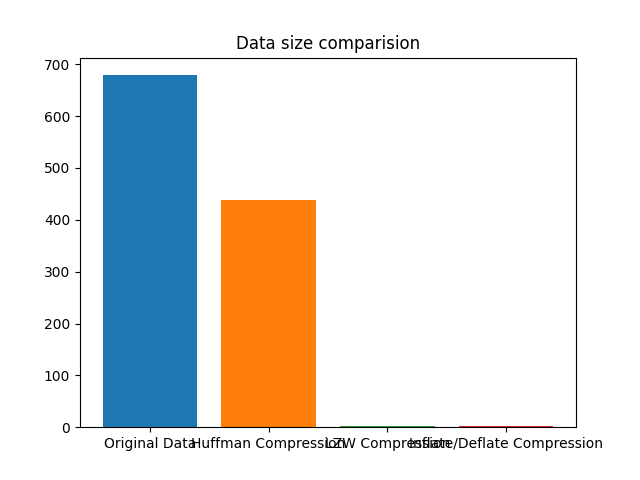
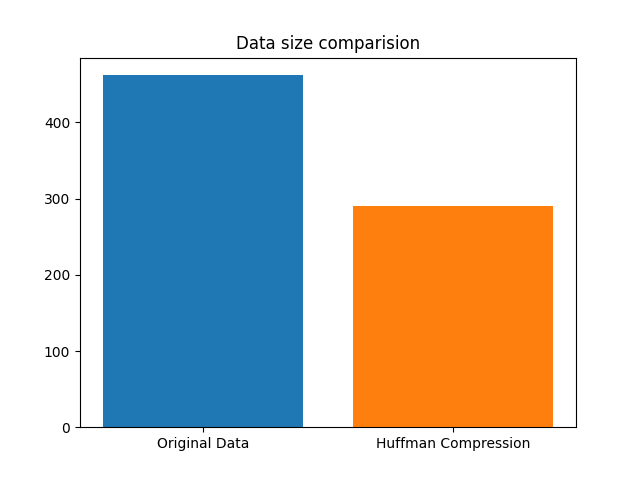
Added Huffman decoding

diff --git a/Python/FuncAndClass.py b/Python/FuncAndClass.py
@@ -29,6 +29,12 @@ class NodeTree(object):
     def __str__(self):
         return '%s_%s' % (self.left, self.right)
 
+class Node:
+    def __init__(self, freq,data):
+        self.freq= freq
+        self.data=data
+        self.left = None
+        self.right = None
 
 # Main function implementing huffman coding
 def huffman_code_tree(node, left=True, binString=''):
@@ -44,11 +50,6 @@ def huffman_code_tree(node, left=True, binString=''):
 def huffComp(arr, z):
     data = arr
     print("")
-    '''
-    f = open("string/data"+str(z)+".txt", 'w')
-    f.write('data = ' + data)
-    f.close()
-    '''
     
     freq = {}
     # Calculating frequency
@@ -77,13 +78,33 @@ def huffComp(arr, z):
     print('----------------------')
     for (char, frequency) in freq:
         print(' %-4r |%12s' % (char, huffmanCode[char]))
-
+    
     compdata = ''
     for char in data:
         compdata += huffmanCode[char]
-
     # Comparing our compressed code to the normal ASCII code values
     return compdata
+
+def huffDec(root, data):
+	#Enter Your Code Here
+    cur = root
+    chararray = []
+    #For each character, 
+    #If at an internal node, move left if 0, right if 1
+    #If at a leaf (no children), record data and jump back to root AFTER processing character
+    for char in data:
+        if char == '0' and cur.left:
+            cur = cur.left
+        elif cur.right:
+            cur = cur.right
+        
+        if cur.left is None and cur.right is None:
+            chararray.append(cur.data)
+            cur = root
+    
+    #Print final array
+    print("".join(chararray))
+
 
 # Function for LZW Compression
 def LZWEnc(strData, code_width=12):
@@ -351,7 +372,7 @@ def stringIt(arr):
     return arr
 
 #Transmittion
-def monteTransmit(EbNo, transArr, sourceData, code):
+def monteTransmit(EbNo, transArr, sourceData, code=0):
     BERarr = [None] * EbNo.size
     M = 64
     r = 0
@@ -384,17 +405,14 @@ def monteTransmit(EbNo, transArr, sourceData, code):
         
         
         if code == 1:
+            answer = 'Hamming Encoded'
             r = calcRedundantBits(len(transArr))
             modArr = mod.modulate(transArr)
-            # rateHamming = 1 - r/(2^r - 1)
-            rateHamming = 1/2
+            rateHamming = 1 - r/(2^r - 1)
+            # rateHamming = 1/2
             recieveArr = awgn(modArr, SNR, rate=rateHamming)
             demodArr = mod.demodulate(recieveArr, 'hard')
-
-            answer = 'Hamming Encoded'
-            data = transArr
-            decodedData = demodArr
-            '''
+            
             r =  calcRedundantBits(len(demodArr))    
             posError = 0
             posError = detectError(stringIt(demodArr), r)
@@ -402,12 +420,11 @@ def monteTransmit(EbNo, transArr, sourceData, code):
             print("The position of error is " + str(posError))
             print("The size of our data is this " + str(demodArr.size))
             print(str(i) + " out of " + str(EbNo.size))
-            decodedData = correctIt(posError, r, demodArr)
+            # decodedData = correctIt(posError, r, demodArr)
             print("")
-            '''
-
-            numErrs += np.sum(data != decodedData)
-            BERarr[i] = numErrs/decodedData.size
+        
+            # numErrs += np.sum(transArr != decodedData)
+            # BERarr[i] = numErrs/decodedData.size
             '''
             f = open("string/hammingCodes.txt", 'w')
             f.write('Corrected Data = ' + str(demodArr))

diff --git a/Python/JointCode.py b/Python/JointCode.py
@@ -13,7 +13,7 @@ for z in range(3):
     print(z)
     # huffman code
 
-    
+    '''
     sizeOfData = np.random.randint(10,100)
     symbols = list(string.ascii_uppercase)
     arr = np.random.choice(symbols, sizeOfData) # The code
@@ -23,22 +23,21 @@ for z in range(3):
     R = open("DoneImages/data147.txt", "r")
     arr = R.read()
     R.close()   
-    '''
+    
     
     strData = ""
     for i in arr:
         strData += i
-        
     origData = binText(strData)
     huffData = huffComp(strData, z)
-    LZWData = LZWEnc(strData)
+    print(huffDec(root, huffData))
+    # LZWData = LZWEnc(strData)
     # infData = Deflate(strData)
-    infData = LZWData
+    # infData = LZWData
 
-    sourceCodes = [origData, huffData, LZWData, infData]
-    sourceNames = ["Original Data", "Huffman Compression", "LZW Compression", "Inflate/Deflate Compression"]
+    sourceCodes = [origData, huffData ]# , LZWData, infData]
+    sourceNames = ["Original Data", "Huffman Compression" ]#, "LZW Compression", "Inflate/Deflate Compression"]
 
-    
     print ("Normally our code would be of size ", len(origData))
     for i in range(0, len(sourceCodes)):
         print ("Using ", sourceNames[i],  len(sourceCodes[i]))
@@ -47,19 +46,19 @@ for z in range(3):
         print("")
         # plotting for better visuals
         plt.bar(sourceNames[i], len(sourceCodes[i]), align='center')
-        plt.title('Data size comparision')
-        plt.savefig('CompSize/Source_Comparision'+str(z)+'.png', format='png')
+        plt.title('Data size comparison')
+        plt.savefig('CompSize/Source_Comparison'+str(z)+'.png', format='png')
     plt.show()
     plt.close()
     
-    print(LZWDec(sourceCodes[2]))
+    # print(LZWDec(sourceCodes[2]))
     
-    '''
-     for i in range(0, len(sourceCodes)):
+    
+    for i in range(1, len(sourceCodes)):
         # hamming code
-        JSCData = hammingCoding(comparision)
-        LDPCData = get_ldpc_code_params(sourceCodes[i])
-
+        JSCData = hammingCoding(sourceCodes[i])
+        
+        #LDPCData = get_ldpc_code_params(sourceCodes[i])
         # classTrellis(memory, g_matrix, feedback=0, code_type='default')
         # convData = conv_encode(sourceCodes[i], trellis, termination='term', puncture_matrix=None)
         # turboData = turbo_encode(sourceCodes[i], trellis1, trellis2, interleaver)
@@ -71,19 +70,18 @@ for z in range(3):
         plt.yscale('log')
         plt.grid(True)
 
-        monteTransmit(EbNo, np.array(list(origData),dtype=int))
-        recieveArr = monteTransmit(EbNo, JSCData, sourceCodes[i], 1)
-        recieveArr = monteTransmit(EbNo, dict(subString.split("=") for subString in sourceCodes[i].split(";")) + LDPCData, LDPCData, 2)
-
+        monteTransmit(EbNo, np.array(list(origData),dtype=int), origData)
+        recieveArr = monteTransmit(EbNo, JSCData, origData, 1)
+        
+        #recieveArr = monteTransmit(EbNo, dict(subString.split("=") for subString in sourceCodes[i].split(";")) + LDPCData, LDPCData, 2)
         # recieveArr = monteTransmit(EbNo, convData, sourceCodes[i], 3)
         # recieveArr = monteTransmit(EbNo, turboData, sourceCodes[i], 4)
-
     plt.legend()
-    plt.savefig('BERSNR/BERSNR_Comparision'+str(z)+'.png', format='png')
+    plt.savefig('BERSNR/BERSNR_Comparison'+str(z)+'.png', format='png')
     plt.show()
     plt.close()
     print("")
-    '''
+    
 
 # In[ ]:
 
